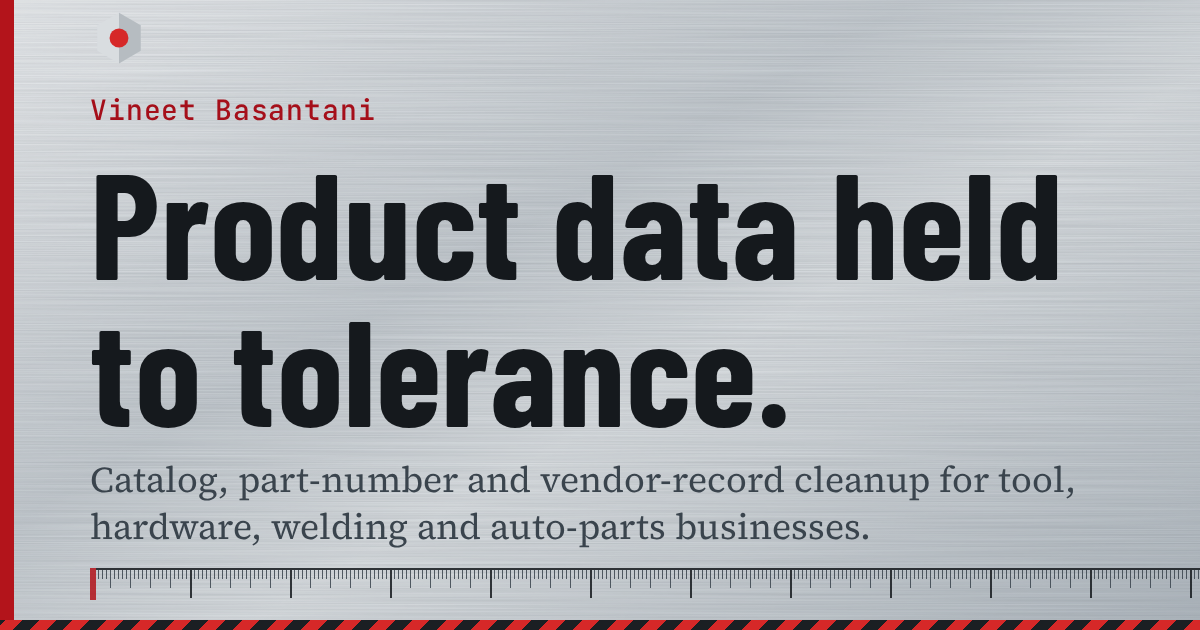
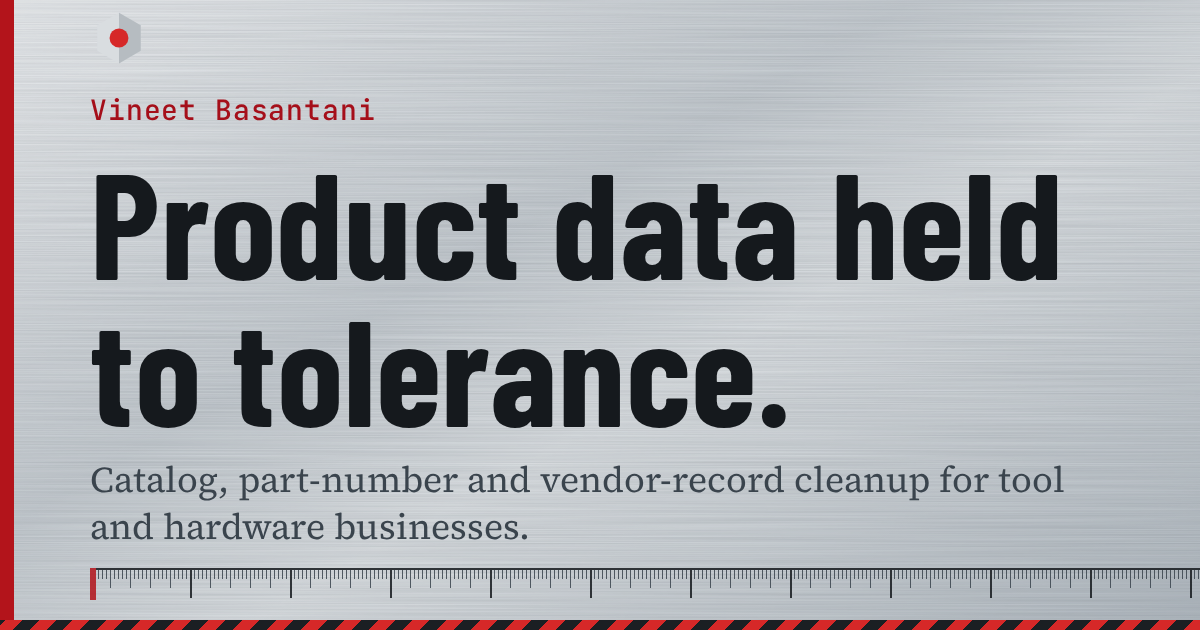
Reword audience to tool and hardware businesses; refresh share card text
Drops welding and auto-parts from the title, meta description, share
description, hero line, README and the link-preview image.

Claude-Session: https://claude.ai/code/session_01B99Y9Cs2UPBR1QSJFyvCF3

Changed region(s): [[0.0617, 0.8143, 0.7092, 0.8746]]

diff --git a/index.html b/index.html
@@ -3,11 +3,11 @@
 <head>
 <meta charset="UTF-8">
 <meta name="viewport" content="width=device-width, initial-scale=1.0">
-<title>Vineet Basantani | Catalog and Records Cleanup for Tool, Hardware and Auto-Parts Shops</title>
-<meta name="description" content="I clean up product catalogs, part numbers and vendor records for tool, hardware, welding and auto-parts businesses. Based in Moncton, New Brunswick. Free audit.">
+<title>Vineet Basantani | Catalog and Records Cleanup for Tool and Hardware Shops</title>
+<meta name="description" content="I clean up product catalogs, part numbers and vendor records for tool and hardware businesses. Based in Moncton, New Brunswick. Free audit.">
 <meta name="theme-color" content="#B3141B">
 <meta property="og:title" content="Product data held to tolerance">
-<meta property="og:description" content="Catalog, part-number and vendor-record cleanup for tool, hardware, welding and auto-parts businesses.">
+<meta property="og:description" content="Catalog, part-number and vendor-record cleanup for tool and hardware businesses.">
 <meta property="og:type" content="website">
 <meta property="og:url" content="https://vineetbasantani1.github.io/portfolio/">
 <meta property="og:image" content="https://vineetbasantani1.github.io/portfolio/og-image.png">
@@ -293,7 +293,7 @@
     <div class="hero-grid">
       <div>
         <h1>Product data held to tolerance.</h1>
-        <p class="lede">I clean up catalogs, part numbers and vendor records for tool, hardware, welding and auto-parts businesses, so customers find the right item and your stock numbers match the shelf.</p>
+        <p class="lede">I clean up catalogs, part numbers and vendor records for tool and hardware businesses, so customers find the right item and your stock numbers match the shelf.</p>
         <div class="btn-row">
           <a class="btn btn-primary" href="mailto:vineetbasantani1@icloud.com?subject=Free%20shop%20audit">Request a free audit</a>
           <a class="btn btn-line" href="#sample">See a sample cleanup</a>

diff --git a/README.md b/README.md
@@ -4,7 +4,7 @@
 
 [![site: vineetbasantani1.github.io/portfolio](https://img.shields.io/badge/site-vineetbasantani1.github.io%2Fportfolio-B3141B?style=flat-square&labelColor=1B1F23)](https://vineetbasantani1.github.io/portfolio/)
 
-Source of [vineetbasantani1.github.io/portfolio](https://vineetbasantani1.github.io/portfolio/): catalog, part-number and vendor-record cleanup for tool, hardware, welding and auto-parts businesses.
+Source of [vineetbasantani1.github.io/portfolio](https://vineetbasantani1.github.io/portfolio/): catalog, part-number and vendor-record cleanup for tool and hardware businesses.
 
 - [`index.html`](index.html): the site, a single page with no build step
 - [`case-studies/nutrition-data-cleanup/`](case-studies/nutrition-data-cleanup/): a before-and-after cleanup sample
